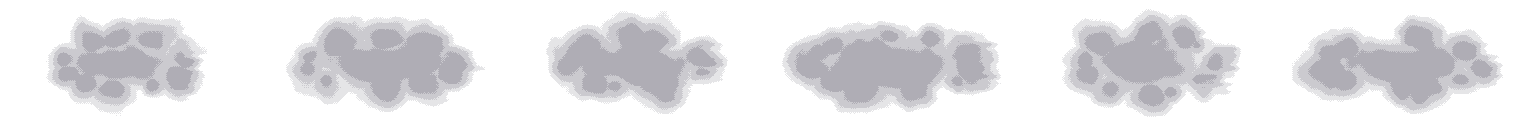
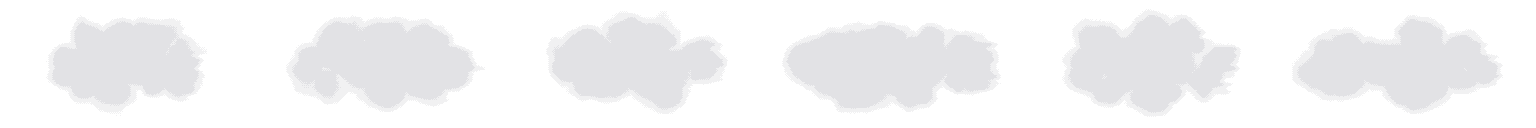
cloud_shadows.png much lighter, no dense core: never a nightmare-sized dark blob on the path
art_direction.md Nightmares (395fed8a): in whole-island shots the edge clouds' .34 core read as nightmares on the path. Now 2 light bands (.12 / .06) of the same large lobed shapes.

diff --git a/Project_T/tools/environment_art/heartwood_grounds.html b/Project_T/tools/environment_art/heartwood_grounds.html
@@ -1917,7 +1917,9 @@ function cloudShadow(v) {
     f += (pnoise(x, y, 26, s) - .5) * .42 + (pnoise(x, y, 10, s + 1) - .5) * .16;
     if (ex > .45) f -= (pnoise(x * .5, y * 2, 8, s + 2) - .35) * .5 * (ex - .45);  // wisps trailing downwind
     const d = (bay(x, y) - .5) * .07;
-    const a = f + d > .46 ? .34 : f + d > .24 ? .22 : f + d > .07 ? .11 : 0;
+    // Light and large, no dense core (art_direction.md Nightmares, 395fed8a: nothing on the path is a
+    // dark blob the size of a nightmare; the old .34 core read as one in whole-island shots).
+    const a = f + d > .24 ? .12 : f + d > .07 ? .06 : 0;
     if (a) L.set(x, y, CA("#140f26", a));
   }
   return L;

diff --git a/Project_T/documentation/environment_assets.md b/Project_T/documentation/environment_assets.md
@@ -80,7 +80,7 @@ healthy trees are no longer used.
 | `void_stars.png` | 256×256 | seamless, transparent | front parallax layer: brighter stars |
 | `void_islets.png` | 256×64 | 4 small floating islands | scatter in the void |
 | `rope_bridge.png` | 128×64 | 2 tiles: east–west, north–south; repeat along the bridge | where nightmares cross from the void to the start cell |
-| `cloud_shadows.png` | 1536×128 | 6 cloud shadows, 256×128 each, transparent | cloud shadows seen from above (lobed, denser in the middle, wisps on the downwind side; 3 banded alpha steps of Dread). `EnvironmentAmbience` draws them drifting round the map edges and a few (`crossing_clouds`) across the whole map with `cloud_wind` |
+| `cloud_shadows.png` | 1536×128 | 6 cloud shadows, 256×128 each, transparent | cloud shadows seen from above (lobed, wisps on the downwind side; 2 light banded alpha steps of Dread, 0.12 / 0.06, with no dense core: since 2026-10-04 nothing on the path may be a dark blob the size of a nightmare). `EnvironmentAmbience` draws them drifting round the map edges and a few (`crossing_clouds`) across the whole map with `cloud_wind` |
 | `mist_banks.png` | 256×256 | seamless tile, transparent; dithered fog in the title's fog ramp (Pool, Slate, Stone, Mist) | the title and Grove screens' teal-grey mist: `EnvironmentAmbience` drifts two layers of it over the island (stretched 2× wide, 32 px bands, at the cloud shadows' z), thickest at the back of the map, a little at the front and down the sides, thin over the middle (`mist_strength`) |
 | `route_mist.png` | 64×24 | a strip that tiles left ↔ right, forward = +x; transparent top and bottom | the route's cold mist (screens_ui.md "Route mist"; v2 2026-10-01 for play zoom): a pale Mist core (0.75) inside Slate, inside a broken, dithered cold Shade edge, so it reads both on the pale path (the cold edge) and on dark grass (the pale core); its thickness swells and pinches like fog. Soft broken 2 px strands of Moonlight / Wraithlight drift through it (a sharp continuous violet line read as lightning). Tiled along a Line2D (width = 24) by the run-start route and the build preview |
 | `route_mist_start.png`, `route_mist_end.png` | 32×24 each | caps for the strip's two ends | sampled from the strip's own pattern (start = its last 32 px, end = its first 32), so start cap + strips + end cap join without seams: the start thin and fading in, the end fading out with a curl reaching forward |
